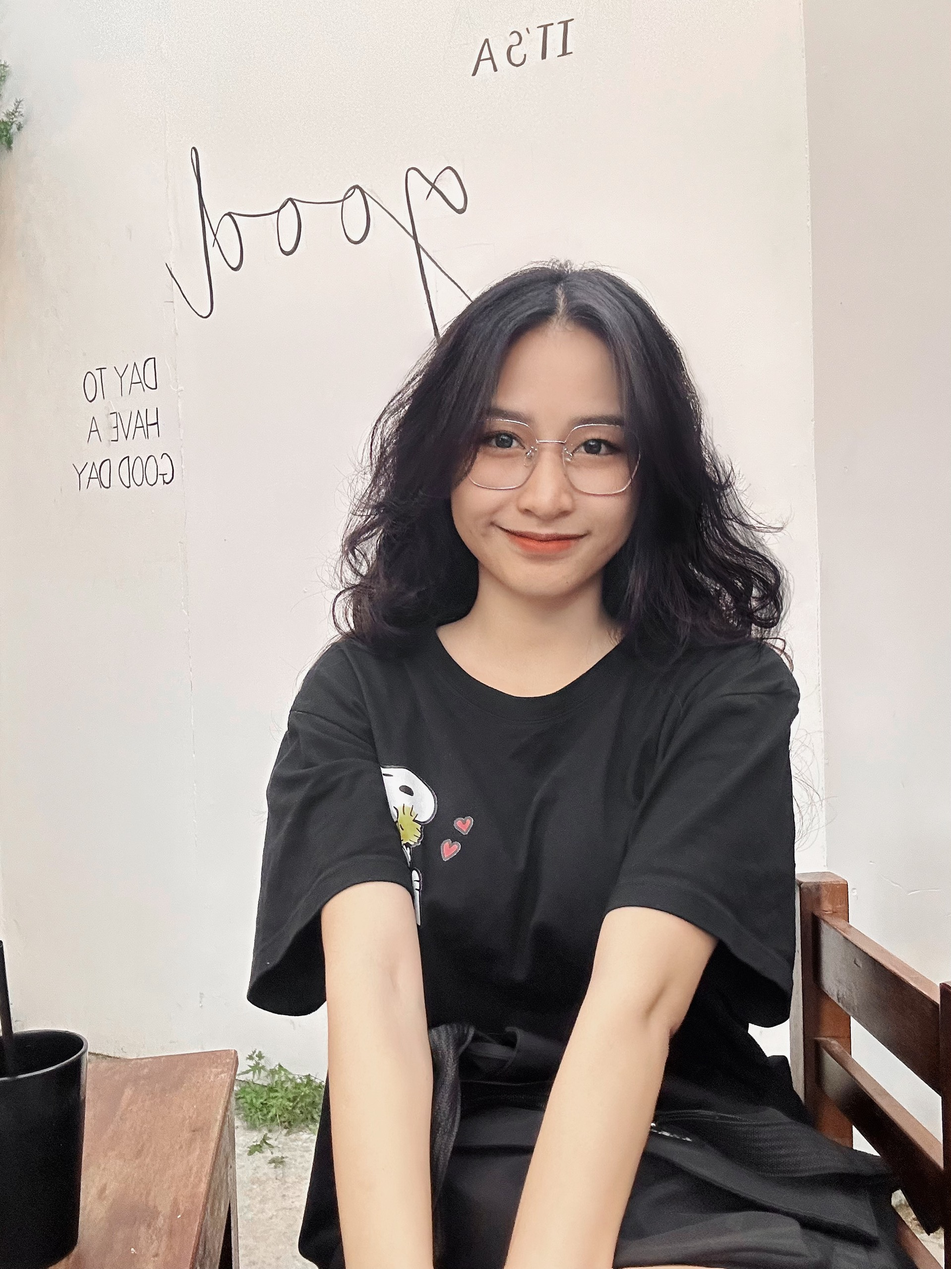
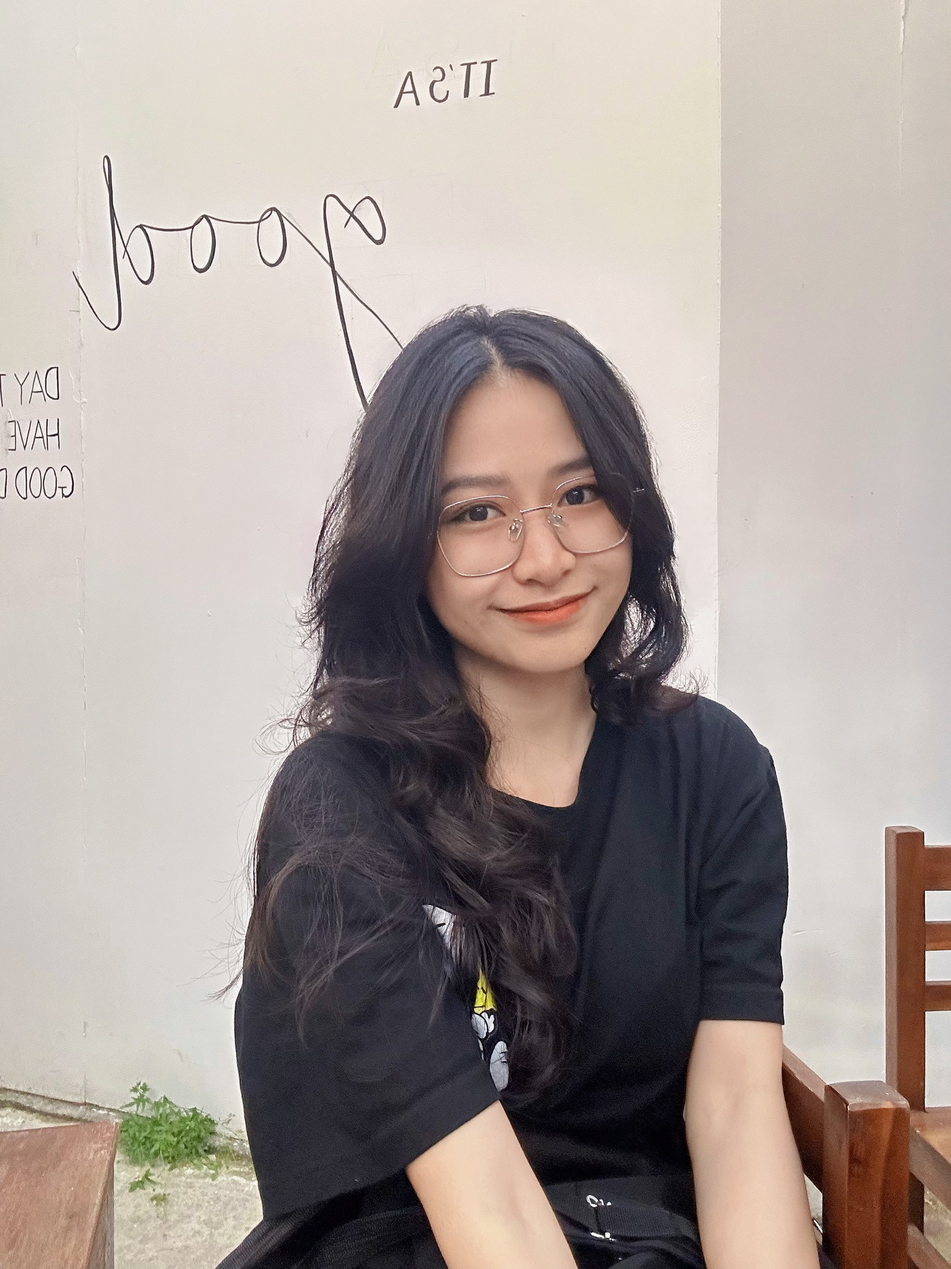
fix my phoot

diff --git a/index.html b/index.html
@@ -95,9 +95,10 @@
                     <li><i class="fa fa-circle" aria-hidden="true"></i>
                       <strong>Số điện thoại:</strong> <span>0399552789</span></li>
                     <li><i class="fa fa-circle" aria-hidden="true"></i>
-                    </i> <strong>Địa chỉ:</strong> <span>229 Lê Thế Tiết, Lao Bảo,
+                      </i> <strong>Địa chỉ:</strong> <span>229 Lê Thế Tiết, Lao Bảo,
                         Hướng Hóa, Quảng Trị</span></li>
-                    <li><i class="fa fa-circle" aria-hidden="true"></i> <strong>Ngày sinh:</strong> <span>01/01/2000</span></li>
+                    <li><i class="fa fa-circle" aria-hidden="true"></i> <strong>Ngày sinh:</strong>
+                      <span>01/01/2000</span></li>
                     <!-- <li><i class="bi bi-chevron-right"></i> <strong>Degree:</strong> <span>Master</span></li> -->
                     <li><i class="fa fa-circle" aria-hidden="true"></i> <strong>Email:</strong>
                       <span>Ttthuong.1120@gmail.com</span></li>
@@ -235,7 +236,7 @@
               <p>1</p>
               <p>1</p>
             </div>
-            
+
           </div>
           <div class="col-lg-6">
             <h3 class="resume-title">Kinh nghiệm</h3>
@@ -297,13 +298,13 @@
                   <li>
                     Chỉnh sửa các video hay để đăng tải lên mạng xã hội
                   </li>
-                  
+
                 </ul>
               </p>
             </div>
 
-           
-            
+
+
           </div>
         </div>
 
@@ -317,14 +318,15 @@
         <div class="section-title">
           <span>My Services</span>
           <h2>My Services</h2>
-          <p>Sit sint consectetur velit quisquam cupiditate impedit suscipit alias</p>
+          <p>NỘI DUNG</p>
         </div>
 
         <div class="row">
           <div class="col-md-6 col-lg-3 d-flex align-items-stretch mb-5 mb-lg-0">
             <div class="icon-box">
               <div class="">
-                <img src="./assets/img/baico2.jpg" alt="" style="width: 60px; height: 60px; border-radius:50%; -moz-border-radius:50%;-webkit-border-radius:50%;">
+                <img src="./assets/img/baico2.jpg" alt=""
+                  style="width: 60px; height: 60px; border-radius:50%; -moz-border-radius:50%;-webkit-border-radius:50%;">
               </div>
               <h4 class="title"><a href="">x10 Digital</a></h4>
               <p class="description">Nội dung</p>
@@ -333,9 +335,12 @@
 
           <div class="col-md-6 col-lg-3 d-flex align-items-stretch mb-5 mb-lg-0">
             <div class="icon-box">
-              <div class=""><div class="">
-                <img src="./assets/img/baico2.jpg" alt="" style="width: 60px; height: 60px; border-radius:50%; -moz-border-radius:50%;-webkit-border-radius:50%;">
-              </div></div>
+              <div class="">
+                <div class="">
+                  <img src="./assets/img/baico2.jpg" alt=""
+                    style="width: 60px; height: 60px; border-radius:50%; -moz-border-radius:50%;-webkit-border-radius:50%;">
+                </div>
+              </div>
               <h4 class="title"><a href="">Vietbiz</a></h4>
               <p class="description">Nội dung</p>
             </div>
@@ -343,9 +348,12 @@
 
           <div class="col-md-6 col-lg-3 d-flex align-items-stretch mb-5 mb-lg-0">
             <div class="icon-box">
-              <div class=""><div class="">
-                <img src="./assets/img/baico2.jpg" alt="" style="width: 60px; height: 60px; border-radius:50%; -moz-border-radius:50%;-webkit-border-radius:50%;">
-              </div></div>
+              <div class="">
+                <div class="">
+                  <img src="./assets/img/baico2.jpg" alt=""
+                    style="width: 60px; height: 60px; border-radius:50%; -moz-border-radius:50%;-webkit-border-radius:50%;">
+                </div>
+              </div>
               <h4 class="title"><a href="">TaoBao</a></h4>
               <p class="description">Nội dung</p>
             </div>
@@ -353,9 +361,12 @@
 
           <div class="col-md-6 col-lg-3 d-flex align-items-stretch mb-5 mb-lg-0">
             <div class="icon-box">
-              <div class=""><div class="">
-                <img src="./assets/img/baico2.jpg" alt="" style="width: 60px; height: 60px; border-radius:50%; -moz-border-radius:50%;-webkit-border-radius:50%;">
-              </div></div>
+              <div class="">
+                <div class="">
+                  <img src="./assets/img/baico2.jpg" alt=""
+                    style="width: 60px; height: 60px; border-radius:50%; -moz-border-radius:50%;-webkit-border-radius:50%;">
+                </div>
+              </div>
               <h4 class="title"><a href="">Capcut</a></h4>
               <p class="description">Nội dung</p>
             </div>
@@ -457,7 +468,7 @@
         <div class="section-title">
           <span>My Portfolio</span>
           <h2>My Portfolio</h2>
-          <p>Sit sint consectetur velit quisquam cupiditate impedit suscipit alias</p>
+          <p>NỘI DUNG</p>
         </div>
 
         <ul id="portfolio-flters" class="d-flex justify-content-center">
@@ -475,22 +486,22 @@
             <div class="portfolio-info">
               <h4>Website giá rẻ - VietBiz</h4>
               <p>App</p>
-              <a href="assets/img/VietBiz.jpg" data-gallery="portfolioGallery"
-                class="portfolio-lightbox preview-link" title="App 1"><i class="bx bx-plus"></i></a>
-              <a href="portfolio-details.html" class="details-link" title="More Details"><i class="bx bx-link"></i></a>
+              <a href="./assets/img/VietBiz.jpg" data-gallery="portfolioGallery" class="portfolio-lightbox preview-link"
+                title="App 1"><i class="bx bx-plus"></i></a>
+              <a href="https://www.facebook.com/vietbiz.online?mibextid=LQQJ4d" class="details-link" title="More Details"><i class="bx bx-link"></i></a>
             </div>
           </div>
 
-  
+
 
           <div class="col-lg-4 col-md-6 portfolio-item filter-app">
             <div class="portfolio-img"><img src="./assets/img/web-app/TaoBao.jpg" class="img-fluid" alt=""></div>
             <div class="portfolio-info">
               <h4>Order TaoBao Giá Rẻ - MYNh</h4>
               <p>App</p>
-              <a href="assets/img/portfolio/portfolio-3.jpg" data-gallery="portfolioGallery"
-                class="portfolio-lightbox preview-link" title="App 2"><i class="bx bx-plus"></i></a>
-              <a href="portfolio-details.html" class="details-link" title="More Details"><i class="bx bx-link"></i></a>
+              <a href="./assets/img/web-app/TaoBao.jpg" data-gallery="portfolioGallery"
+                class="portfolio-lightbox preview-link" ><i class="bx bx-plus"></i></a>
+              <a href="https://www.facebook.com/profile.php?id=100075738802839" class="details-link" title="More Details"><i class="bx bx-link"></i></a>
             </div>
           </div>
 
@@ -498,7 +509,8 @@
           <!-- End web-app -->
 
           <div class="col-lg-4 col-md-6 portfolio-item filter-Digital">
-            <div class="portfolio-img"><img src="./assets/img/x10-digital/x10Digital.jpg" class="img-fluid" alt=""></div>
+            <div class="portfolio-img"><img src="./assets/img/x10-digital/x10Digital.jpg" class="img-fluid" alt="">
+            </div>
             <div class="portfolio-info">
               <h4>Trang chủ x10 Digital VietNam</h4>
               <p>x10 Digital</p>
@@ -509,9 +521,10 @@
           </div>
 
           <div class="col-lg-4 col-md-6 portfolio-item filter-Digital">
-            <div class="portfolio-img"><img src="./assets/img/x10-digital/result-x10.jpg" style="width: 416px; height: 249.59px;" class="img-fluid" alt=""></div>
+            <div class="portfolio-img"><img src="./assets/img/x10-digital/result-x10.jpg"
+                style="width: 416px; height: 249.59px;" class="img-fluid" alt=""></div>
             <div class="portfolio-info">
-              <h4>kết quả tiếp cận page X10 digtal trong vòng 1 tháng</h4>
+              <h4>Kết quả tiếp cận page x10 Digital trong 1 tháng</h4>
               <p>x10 Digital</p>
               <a href="./assets/img/x10-digital/result-x10.jpg" data-gallery="portfolioGallery"
                 class="portfolio-lightbox preview-link" title="Digital 1"><i class="bx bx-plus"></i></a>
@@ -522,35 +535,66 @@
           <!-- End x10-Digital -->
 
           <div class="col-lg-4 col-md-6 portfolio-item filter-photo">
-            <div class="portfolio-img"><img src="./assets/img/cafedung.jpg" class="img-fluid" alt=""></div>
+            <div class="portfolio-img"><img src="./assets/img/my-photo/myphoto1.jpg" class="img-fluid" alt=""></div>
             <div class="portfolio-info">
               <h4>Myphoto1</h4>
-              <p>Capcut</p>
-              <a href="./assets/img/portfolio/portfolio-1.jpg" data-gallery="portfolioGallery"
-                class="portfolio-lightbox preview-link" title="Capcut 3"><i class="bx bx-plus"></i></a>
-              <a href="portfolio-details.html" class="details-link" title="More Details"><i class="bx bx-link"></i></a>
+              <a href="./assets/img/my-photo/myphoto1.jpg" data-gallery="portfolioGallery"
+                class="portfolio-lightbox preview-link"><i class="bx bx-plus"></i></a>
+              <!-- <a href="#" class="details-link" title="More Details"><i class="bx bx-link"></i></a> -->
             </div>
           </div>
 
           <div class="col-lg-4 col-md-6 portfolio-item filter-photo">
-            <div class="portfolio-img"><img src="./assets/img/cafedung.jpg" class="img-fluid" alt=""></div>
+            <div class="portfolio-img"><img src="./assets/img/my-photo/myphoto2.jpg"
+                style="height: 554.66px; width: 416px;" class="img-fluid" alt=""></div>
             <div class="portfolio-info">
               <h4>Myphoto2</h4>
-              <p>Capcut</p>
-              <a href="./assets/img/portfolio/portfolio-1.jpg" data-gallery="portfolioGallery"
-                class="portfolio-lightbox preview-link" title="Capcut 3"><i class="bx bx-plus"></i></a>
-              <a href="portfolio-details.html" class="details-link" title="More Details"><i class="bx bx-link"></i></a>
+              <a href="./assets/img/my-photo/myphoto2.jpg" data-gallery="portfolioGallery"
+                class="portfolio-lightbox preview-link"><i class="bx bx-plus"></i></a>
+              <!-- <a href="#" class="details-link" title="More Details"><i class="bx bx-link"></i></a> -->
             </div>
           </div>
 
           <div class="col-lg-4 col-md-6 portfolio-item filter-photo">
-            <div class="portfolio-img"><img src="./assets/img/cafedung.jpg" class="img-fluid" alt=""></div>
+            <div class="portfolio-img"><img src="./assets/img/my-photo/myphoto3.jpg"
+                style="height: 554.66px; width: 416px;" class="img-fluid" alt=""></div>
             <div class="portfolio-info">
               <h4>Myphoto3</h4>
-              <p>Capcut</p>
-              <a href="./assets/img/portfolio/portfolio-1.jpg" data-gallery="portfolioGallery"
-                class="portfolio-lightbox preview-link" title="Capcut 3"><i class="bx bx-plus"></i></a>
-              <a href="portfolio-details.html" class="details-link" title="More Details"><i class="bx bx-link"></i></a>
+              <a href="./assets/img/my-photo/myphoto3.jpg" data-gallery="portfolioGallery"
+                class="portfolio-lightbox preview-link"><i class="bx bx-plus"></i></a>
+              <!-- <a href="portfolio-details.html" class="details-link" title="More Details"><i class="bx bx-link"></i></a> -->
+            </div>
+          </div>
+          <div class="col-lg-4 col-md-6 portfolio-item filter-photo">
+            <div class="portfolio-img"><img src="./assets/img/my-photo/myphoto4.jpg"
+                style="height: 554.66px; width: 416px;" class="img-fluid" alt=""></div>
+            <div class="portfolio-info">
+              <h4>Myphoto4</h4>
+              <a href="./assets/img/my-photo/myphoto4.jpg" data-gallery="portfolioGallery"
+                class="portfolio-lightbox preview-link"><i class="bx bx-plus"></i></a>
+              <!-- <a href="portfolio-details.html" class="details-link" title="More Details"><i class="bx bx-link"></i></a> -->
+            </div>
+          </div>
+          <div class="col-lg-4 col-md-6 portfolio-item filter-photo">
+            <div class="portfolio-img"><img src="./assets/img/cafedung.jpg" style="height: 554.66px; width: 416px;"
+                class="img-fluid" alt=""></div>
+            <div class="portfolio-info">
+              <h4>Myphoto5</h4>
+              <a href="./assets/img/cafedung.jpg" data-gallery="portfolioGallery"
+                class="portfolio-lightbox preview-link"><i class="bx bx-plus"></i></a>
+              <!-- <a href="portfolio-details.html" class="details-link" title="More Details"><i class="bx bx-link"></i></a> -->
+            </div>
+            
+          </div>
+
+          <div class="col-lg-4 col-md-6 portfolio-item filter-photo">
+            <div class="portfolio-img"><img src="./assets/img/my-photo/myphoto4.jpg"
+                style="height: 554.66px; width: 416px;" class="img-fluid" alt=""></div>
+            <div class="portfolio-info">
+              <h4>Myphoto6</h4>
+              <a href="./assets/img/my-photo/myphoto4.jpg" data-gallery="portfolioGallery"
+                class="portfolio-lightbox preview-link"><i class="bx bx-plus"></i></a>
+              <!-- <a href="portfolio-details.html" class="details-link" title="More Details"><i class="bx bx-link"></i></a> -->
             </div>
           </div>
 
@@ -561,18 +605,17 @@
             <div class="portfolio-img"><img src="./assets/img/cafedung.jpg" class="img-fluid" alt=""></div>
             <div class="portfolio-info">
               <h4>Capcut 3</h4>
-              <p>Capcut</p>
               <a href="./assets/img/portfolio/portfolio-1.jpg" data-gallery="portfolioGallery"
-                class="portfolio-lightbox preview-link" title="Capcut 3"><i class="bx bx-plus"></i></a>
+                class="portfolio-lightbox preview-link"><i class="bx bx-plus"></i></a>
               <a href="portfolio-details.html" class="details-link" title="More Details"><i class="bx bx-link"></i></a>
             </div>
           </div>
 
         </div>
 
-        
 
-        
+
+
 
       </div>
     </section>
@@ -585,7 +628,7 @@
         <div class="section-title">
           <span>Pricing</span>
           <h2>Pricing</h2>
-          <p>Sit sint consectetur velit quisquam cupiditate impedit suscipit alias</p>
+          <p>NỘI DUNG</p>
         </div>
 
         <div class="row">
@@ -672,7 +715,7 @@
         <div class="section-title">
           <span>Contact Me</span>
           <h2>Contact Me</h2>
-          <p>Sit sint consectetur velit quisquam cupiditate impedit suscipit alias</p>
+          <p>NỘI DUNG</p>
         </div>
 
         <div class="row">
@@ -681,7 +724,7 @@
 
             <div class="row">
               <div class="col-md-12"> -->
-                <!-- <div class="info-box">
+    <!-- <div class="info-box">
                   <i class="bx bx-share-alt"></i>
                   <h3>Social Profiles</h3>
                   <div class="social-links">
@@ -692,7 +735,7 @@
                     <a href="#" class="linkedin"><i class="bi bi-linkedin"></i></a>
                   </div>
                 </div> -->
-              <!-- </div>
+    <!-- </div>
               <div class="col-md-6">
                 <div class="info-box mt-4">
                   <i class="bx bx-envelope"></i>
@@ -711,7 +754,7 @@
 
           </div> -->
 
-          <!-- <div class="col-lg-6">
+    <!-- <div class="col-lg-6">
             <form action="forms/contact.php" method="post" role="form" class="php-email-form">
               <div class="row">
                 <div class="col-md-6 form-group">
@@ -736,7 +779,7 @@
             </form>
           </div> -->
 
-        <!-- </div>
+    <!-- </div>
 
       </div>
     </section> -->
@@ -751,11 +794,12 @@
       <p>Nội dung.</p>
       <div class="social-links">
         <a href="https://zalo.me/0399552789" class=""><i class="bx "></i>Zalo</a>
-        <a href="https://www.facebook.com/profile.php?id=100006610354152" class="facebook"><i class="bx bxl-facebook"></i></a>
+        <a href="https://www.facebook.com/profile.php?id=100006610354152" class="facebook"><i
+            class="bx bxl-facebook"></i></a>
         <a href="https://www.instagram.com/nh.1120/" class="instagram"><i class="bx bxl-instagram"></i></a>
       </div>
-      
-      
+
+
     </div>
   </footer><!-- End Footer -->
 
